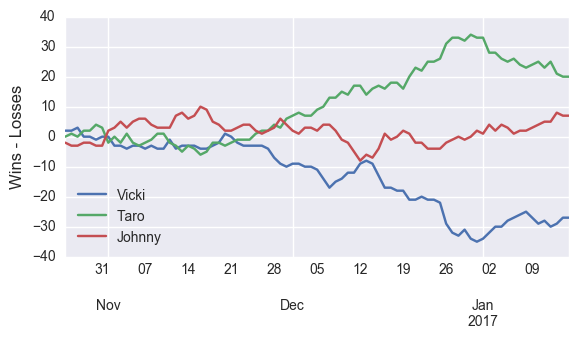
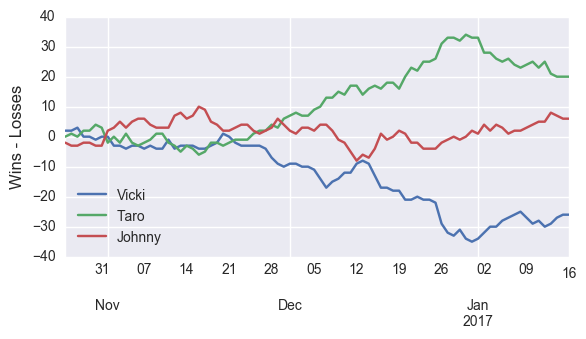
update 1/16

diff --git a/index.html b/index.html
@@ -35,7 +35,7 @@
 <a id="the-bet-is-on" class="anchor" href="#the-bet-is-on" aria-hidden="true"><span aria-hidden="true" class="octicon octicon-link"></span></a>The bet is on.</h1>
 
 <h1>
-<a id="current-winner-of-2016-17-season" class="anchor" href="#current-winner-of-2016-17-season" aria-hidden="true"><span aria-hidden="true" class="octicon octicon-link"></span></a>Current winner of 2016-17 Season (as of 1/15/2017):</h1>
+<a id="current-winner-of-2016-17-season" class="anchor" href="#current-winner-of-2016-17-season" aria-hidden="true"><span aria-hidden="true" class="octicon octicon-link"></span></a>Current winner of 2016-17 Season (as of 1/16/2017):</h1>
 
 <h2>
 <a id="none" class="anchor" href="#none" aria-hidden="true"><span aria-hidden="true" class="octicon octicon-link"></span></a><strong>Taro</strong>
@@ -44,23 +44,23 @@
 <h2>
 <a id="johnny" class="anchor" href="#johnny" aria-hidden="true"><span aria-hidden="true" class="octicon octicon-link"></span></a>Johnny</h2>
 
-<p>Wins: 206<br>
-Losses: 199<br>
-Remaining wins available: 354</p>
+<p>Wins: 208<br>
+Losses: 202<br>
+Remaining wins available: 351</p>
 
 <h2>
 <a id="taro" class="anchor" href="#taro" aria-hidden="true"><span aria-hidden="true" class="octicon octicon-link"></span></a>Taro</h2>
 
-<p>Wins: 210<br>
-Losses: 190<br>
-Remaining wins available: 354</p>
+<p>Wins: 213<br>
+Losses: 193<br>
+Remaining wins available: 351</p>
 
 <h2>
 <a id="vicki" class="anchor" href="#vicki" aria-hidden="true"><span aria-hidden="true" class="octicon octicon-link"></span></a>Vicki</h2>
 
-<p>Wins: 188<br>
-Losses: 215<br>
-Remaining wins available: 357</p>
+<p>Wins: 190<br>
+Losses: 216<br>
+Remaining wins available: 355</p>
 
 <img src='pythoncode/win_percent.png' alt='Winning Percentage Over Time'>
 <h1>
